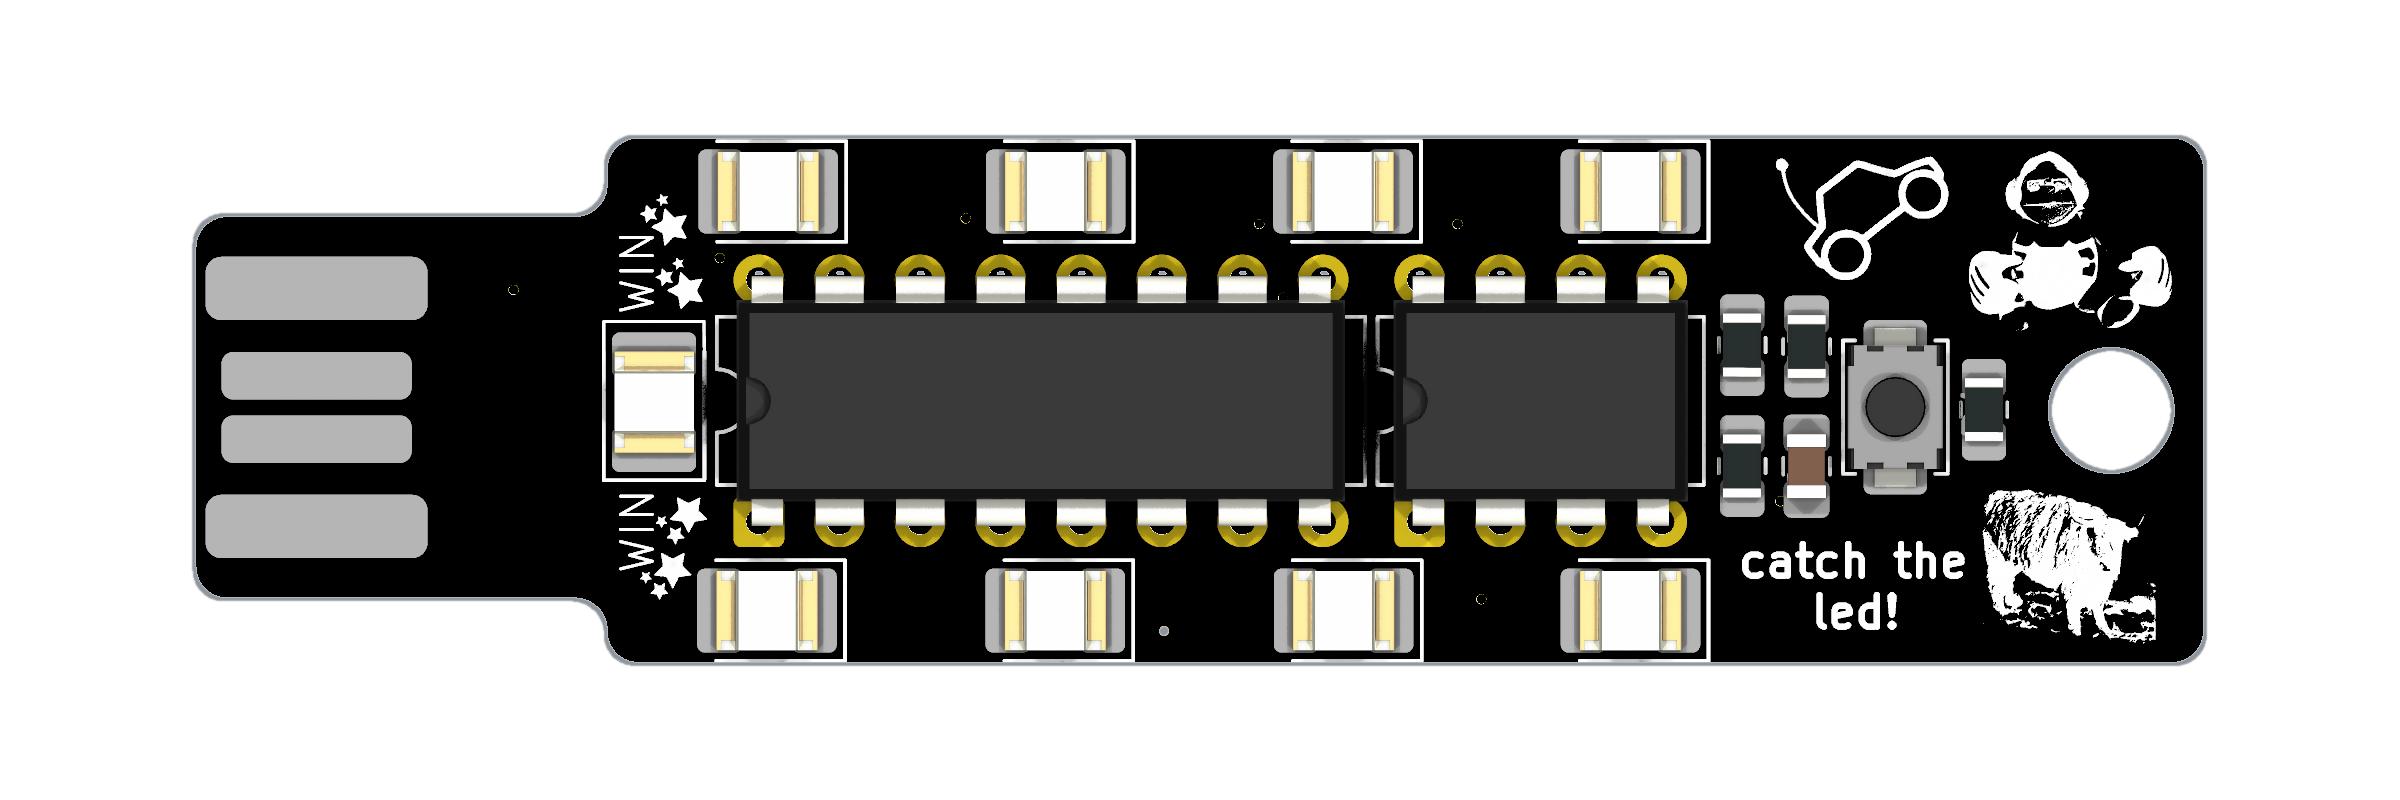
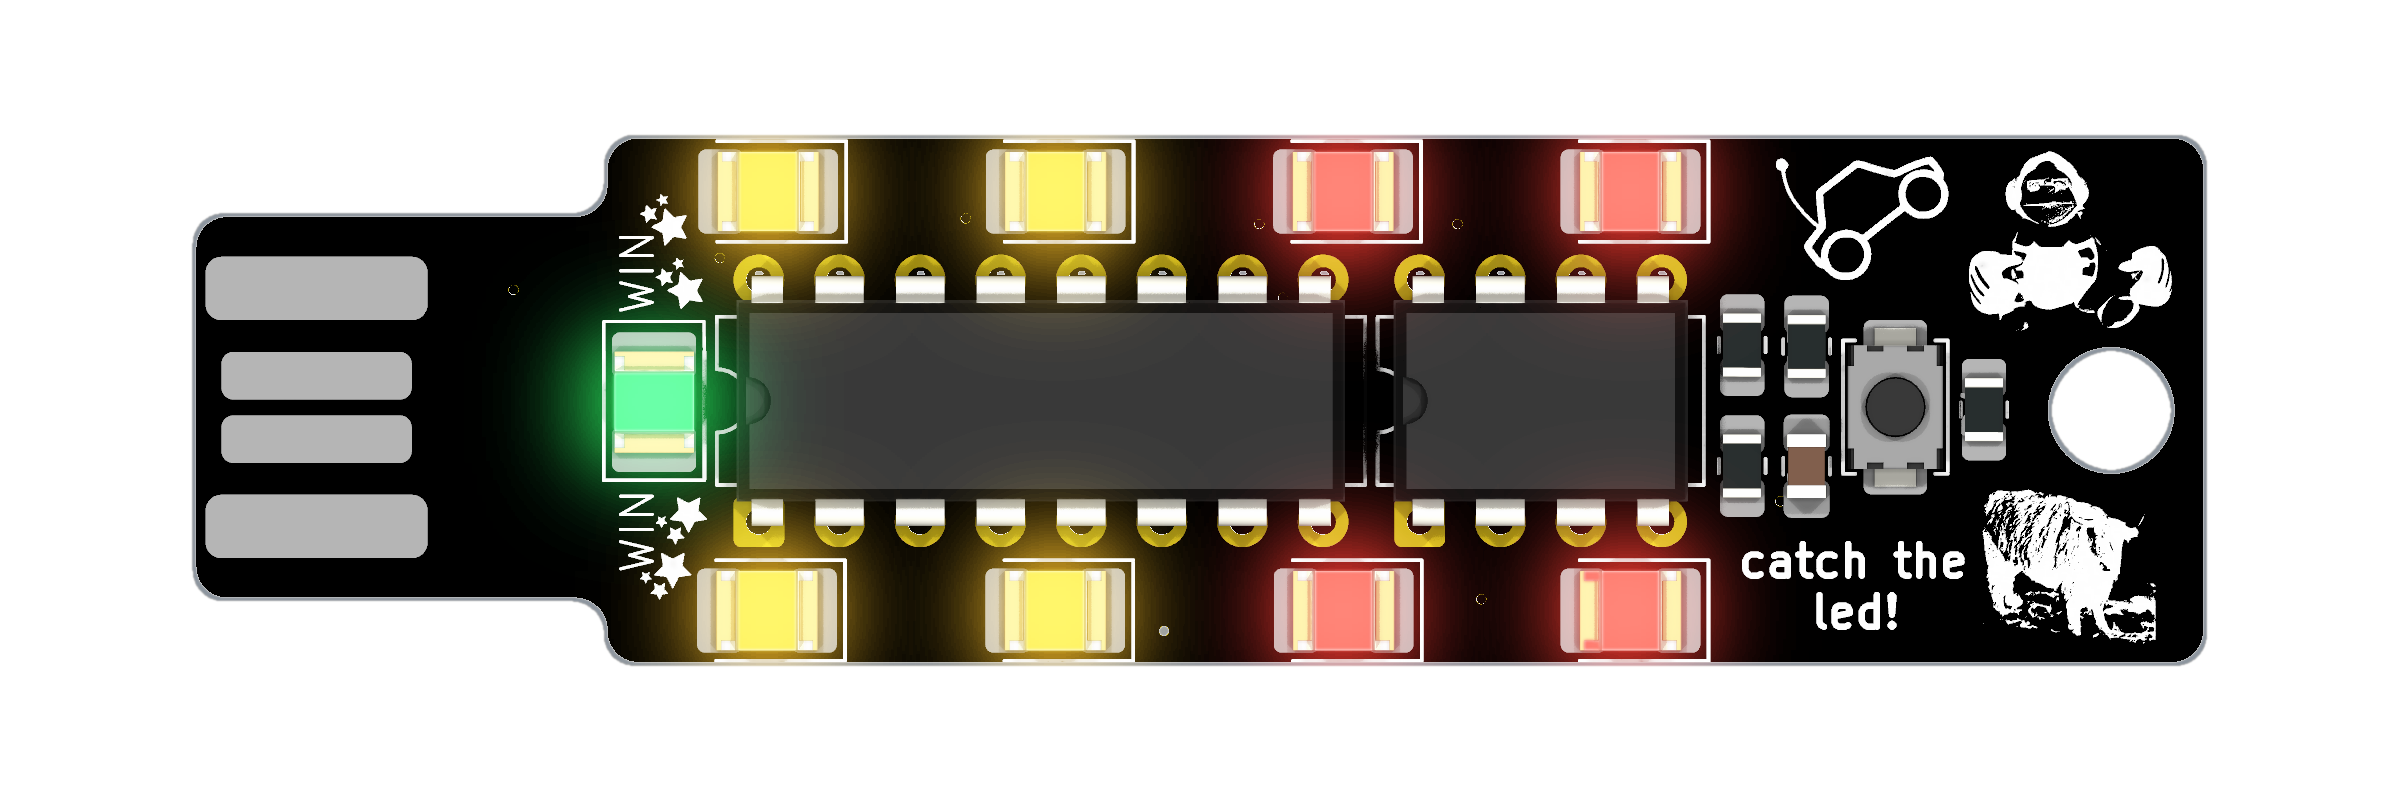
make the LED colours glow in the front renders
Show the chase as it reads on the built boards: green next to the plug, then
two pairs of yellow and two of red, each LED lighting its patch of the mask.

Changed region(s): [[0.2188, 0.1562, 0.75, 0.8438]]

diff --git a/README.md b/README.md
@@ -10,7 +10,7 @@ plugs straight into any USB port for power. No cable, no adapter, no firmware.
 <p align="center">
   <img src="images/catch-the-led-front.png" alt="catch the LED — front" width="100%">
 </p>
-<p align="center"><sub><b>Front</b> — nine 1210 LEDs, the 555 and 4017 as DIP-8 / DIP-16, and the USB-A PCB tongue on the left · black solder mask</sub></p>
+<p align="center"><sub><b>Front</b> — nine 1210 LEDs, the 555 and 4017 as DIP-8 / DIP-16, and the USB-A PCB tongue on the left · black solder mask · LEDs drawn lit, though only one is on at a time</sub></p>
 
 <p align="center">
   <img src="images/catch-the-led-back.png" alt="catch the LED — back" width="100%">
